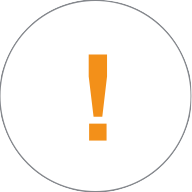
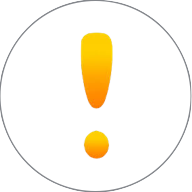
新增：页面标题
- 新增：部分页面新增标题，有的页面因为共用模板所以还没有好的方法处理标题
- 优化：按照wow里的图标重绘认领任务和提交任务

Changed region(s): [[0.4062, 0.1562, 0.5938, 0.8438]]

diff --git a/templates/base.html b/templates/base.html
@@ -5,7 +5,7 @@
 <html lang="zh-cn">
   <head>
     <meta charset="utf-8">
-    <title>Icon Matrix</title>
+    <title>{% block title %}首页{% endblock %} | Icon Matrix</title>
     <meta name="viewport" content="width=device-width, initial-scale=1.0">
     <link href="{% get_static_prefix %}css/bootstrap.min.css" rel="stylesheet">
     <link href="{% get_static_prefix %}css/bootstrap-theme.min.css" rel="stylesheet">
@@ -26,7 +26,7 @@
                       <li class="{% active index_url %}"><a href="{% url 'index' %}">Icon Matrix</a></li>
                       <li class="{% active list_confirm_url %}"><a href="{% url 'list-confirm' %}">认领图标</a></li>
                       <li class="{% active app_submit_url %}"><a href="{% url 'app-submit' %}">提交应用</a></li>
-                      {% block nav-custom %}{% endblock %}
+                      {% block customnav %}{% endblock %}
                   </ul>
                   <ul class="nav navbar-nav navbar-right">
                       {% if user.is_authenticated %}

diff --git a/templates/applications/detail.html b/templates/applications/detail.html
@@ -1,5 +1,9 @@
 {% extends 'base.html' %}
 {% load static %}
+
+{% block title %}{{ application.name }}{% endblock %}
+{% block customnav %}<li class="active"><a href="#">{{ application.name }}</a></li>{% endblock %}
+
 {% block container %}
     <div class="content container">
         <div class="row detail-app-info">

diff --git a/templates/applications/submit.html b/templates/applications/submit.html
@@ -1,5 +1,7 @@
 {% extends 'base.html' %}
 
+{% block title %}提交应用{% endblock %}
+
 {% block container %}
     <div class="content container">
         <form action="/apps/submit/" method="post" class="form-horizontal" role="form">{% csrf_token %}
